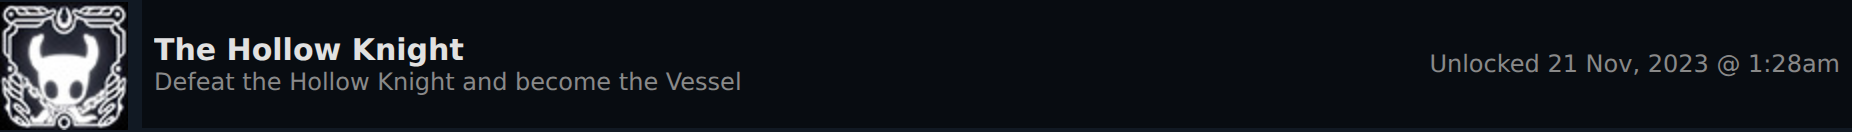
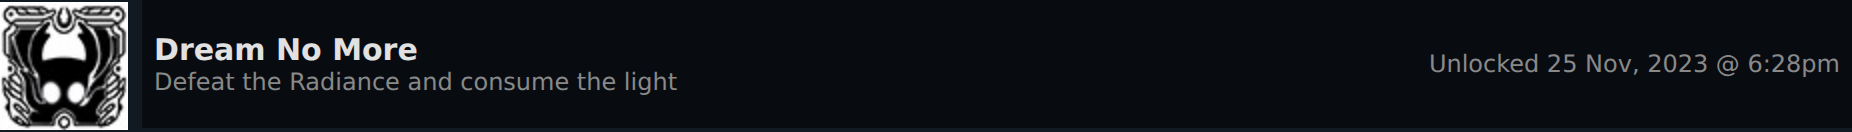
엔딩 과제 검증·교체 — 사용자 제공 리스트 기준 진엔딩/DLC 엔딩 반영
- 할로우나이트 Dream No More(진엔딩), 슬더스 Ruby+(심장), 몬헌월드 등 26게임 재캡처
- games.json proof 기준으로 제출용 인덱스 재생성

Changed region(s): [[0.0, 0.0, 0.277, 1.0], [0.1539, 0.5455, 0.4001, 0.7273], [0.7694, 0.3939, 0.9849, 0.5758]]

diff --git a/엔딩증빙-인덱스.md b/엔딩증빙-인덱스.md
@@ -1,70 +1,66 @@
 # 엔딩 증빙 인덱스 (제출 보조 자료)
 
 > 공개 Steam 프로필: https://steamcommunity.com/profiles/76561198176814643/
-> URL 클릭 시 채용담당자가 바로 검증 가능. 각 게임 도전과제 페이지에서 엔딩 과제 확인.
+> URL 클릭 시 즉시 검증 가능.
 
-## ✅ 엔딩 과제 확인·캡처됨 (27) — 사이트 카드에 이미지 표시
+## ✅ 엔딩 과제 캡처됨 (27) — 사이트 카드에 이미지 표시
 
-| 게임 | 엔딩 증명 과제 | 달성일 | 검증 |
+| 게임 | 엔딩 과제 | 달성일 | 검증 |
 |---|---|---|---|
-| Monster Hunter: World | **Fate's Conclusion** —  | 2020-02-03 | [Steam](https://steamcommunity.com/profiles/76561198176814643/stats/582010/achievements) |
-| The Binding of Isaac: Rebirth | **Wisp Baby** — Beat the game in Hard mode with Bethany. | 2021-06-30 | [Steam](https://steamcommunity.com/profiles/76561198176814643/stats/250900/achievements) |
-| MONSTER HUNTER RISE | **Calamity Conqueror Scroll** — Received upon defeating Ibushi and Narwa. Depicts the two serpents leading the Rampage. | 2022-01-26 | [Steam](https://steamcommunity.com/profiles/76561198176814643/stats/1446780/achievements) |
-| Slay the Spire | **Ruby** — Beat the game with the Ironclad. | 2024-04-02 | [Steam](https://steamcommunity.com/profiles/76561198176814643/stats/646570/achievements) |
-| Frostpunk | **Leader** — Finish the New Home scenario | 2023-10-07 | [Steam](https://steamcommunity.com/profiles/76561198176814643/stats/323190/achievements) |
-| DAVE THE DIVER | **A Peaceful Blue Hole** — Watched the ending credits. | 2023-08-01 | [Steam](https://steamcommunity.com/profiles/76561198176814643/stats/1868140/achievements) |
-| Sephiria | **Last Gatekeeper** — Defeat the Guardian Demon of Qlippoth. | 2025-10-11 | [Steam](https://steamcommunity.com/profiles/76561198176814643/stats/2436940/achievements) |
-| Skul: The Hero Slayer | **The Final Battle of the First Hero** —  | 2021-11-06 | [Steam](https://steamcommunity.com/profiles/76561198176814643/stats/1147560/achievements) |
-| Hades | **Is There No Escape?** — Clear an escape attempt | 2022-01-05 | [Steam](https://steamcommunity.com/profiles/76561198176814643/stats/1145360/achievements) |
-| Hollow Knight | **The Hollow Knight** —  | 2023-11-20 | [Steam](https://steamcommunity.com/profiles/76561198176814643/stats/367520/achievements) |
-| Balatro | **Ante Upper!** — Reach Ante 8 | 2025-01-04 | [Steam](https://steamcommunity.com/profiles/76561198176814643/stats/2379780/achievements) |
-| V Rising | **Slayer of the Immortal King** — Defeat Dracula, The Immortal King. | 2024-07-11 | [Steam](https://steamcommunity.com/profiles/76561198176814643/stats/1604030/achievements) |
-| Ori and the Will of the Wisps | **Destiny** — Complete the Game | 2023-04-23 | [Steam](https://steamcommunity.com/profiles/76561198176814643/stats/1057090/achievements) |
-| We Were Here Forever | **One Must Remain** — Escaped from Castle Rock | 2022-05-28 | [Steam](https://steamcommunity.com/profiles/76561198176814643/stats/1341290/achievements) |
-| Kena: Bridge of Spirits | **Restore Balance** —  | 2024-05-18 | [Steam](https://steamcommunity.com/profiles/76561198176814643/stats/1954200/achievements) |
-| Remnant II | **Forever is a Long Time Coming** —  | 2025-02-12 | [Steam](https://steamcommunity.com/profiles/76561198176814643/stats/1282100/achievements) |
-| Tails of Iron | **Defeat Ratnor Rodentson** — Defeat Ratnor Rodentson in the deeps of the Forbidden Crypts | 2024-08-08 | [Steam](https://steamcommunity.com/profiles/76561198176814643/stats/1283410/achievements) |
-| Tribes of Midgard | **Back to Asgarð** — Deliver the final blow to defeat a Thunder Jötunn in any Mode | 2025-02-17 | [Steam](https://steamcommunity.com/profiles/76561198176814643/stats/858820/achievements) |
-| Ori and the Blind Forest: Definitive Edition | **The Journey Ends** — Complete the game | 2023-04-22 | [Steam](https://steamcommunity.com/profiles/76561198176814643/stats/387290/achievements) |
-| Death's Door | **Crow Gamer** — Beat the game | 2024-09-02 | [Steam](https://steamcommunity.com/profiles/76561198176814643/stats/894020/achievements) |
-| SANABI | **Farewell** —  | 2024-03-10 | [Steam](https://steamcommunity.com/profiles/76561198176814643/stats/1562700/achievements) |
-| Portal 2 | **Lunacy** — That just happened | 2019-12-10 | [Steam](https://steamcommunity.com/profiles/76561198176814643/stats/620/achievements) |
-| Scritchy Scratchy | **Win everything?** — Scratch final chance without dying | 2026-04-05 | [Steam](https://steamcommunity.com/profiles/76561198176814643/stats/3948120/achievements) |
-| Emissary Zero | **The end** — Finish the game. | 2025-05-11 | [Steam](https://steamcommunity.com/profiles/76561198176814643/stats/3176060/achievements) |
-| Rock Bottom | **Light at the Bottom** — Complete the story. | 2026-07-15 | [Steam](https://steamcommunity.com/profiles/76561198176814643/stats/4297840/achievements) |
-| Zort | **Escape from Yozgat** — Escaping from the nothingness! | 2024-12-11 | [Steam](https://steamcommunity.com/profiles/76561198176814643/stats/3121110/achievements) |
-| GONE Fishing | **You Survived** — Reached day 7 | 2025-08-31 | [Steam](https://steamcommunity.com/profiles/76561198176814643/stats/3645890/achievements) |
+| Monster Hunter: World | **An End and a Beginning** | 2020-01-17 | [Steam](https://steamcommunity.com/profiles/76561198176814643/stats/582010/achievements) |
+| The Binding of Isaac: Rebirth | **Wisp Baby** | 2021-06-30 | [Steam](https://steamcommunity.com/profiles/76561198176814643/stats/250900/achievements) |
+| MONSTER HUNTER RISE | **Calamity Conqueror Scroll** | 2022-01-26 | [Steam](https://steamcommunity.com/profiles/76561198176814643/stats/1446780/achievements) |
+| Slay the Spire | **Ruby+** | 2024-04-14 | [Steam](https://steamcommunity.com/profiles/76561198176814643/stats/646570/achievements) |
+| Frostpunk | **Leader** | 2023-10-07 | [Steam](https://steamcommunity.com/profiles/76561198176814643/stats/323190/achievements) |
+| DAVE THE DIVER | **A Peaceful Blue Hole** | 2023-08-01 | [Steam](https://steamcommunity.com/profiles/76561198176814643/stats/1868140/achievements) |
+| Sephiria | **Last Gatekeeper** | 2025-10-11 | [Steam](https://steamcommunity.com/profiles/76561198176814643/stats/2436940/achievements) |
+| Skul: The Hero Slayer | **The Final Battle of the First Hero** | 2021-11-06 | [Steam](https://steamcommunity.com/profiles/76561198176814643/stats/1147560/achievements) |
+| Hades | **Is There No Escape?** | 2022-01-05 | [Steam](https://steamcommunity.com/profiles/76561198176814643/stats/1145360/achievements) |
+| Hollow Knight | **Dream No More** | 2023-11-25 | [Steam](https://steamcommunity.com/profiles/76561198176814643/stats/367520/achievements) |
+| Balatro | **Ante Upper!** | 2025-01-04 | [Steam](https://steamcommunity.com/profiles/76561198176814643/stats/2379780/achievements) |
+| V Rising | **Slayer of the Immortal King** | 2024-07-11 | [Steam](https://steamcommunity.com/profiles/76561198176814643/stats/1604030/achievements) |
+| Ori and the Will of the Wisps | **Destiny** | 2023-04-23 | [Steam](https://steamcommunity.com/profiles/76561198176814643/stats/1057090/achievements) |
+| We Were Here Forever | **One Must Remain** | 2022-05-28 | [Steam](https://steamcommunity.com/profiles/76561198176814643/stats/1341290/achievements) |
+| Kena: Bridge of Spirits | **Restore Balance** | 2024-05-18 | [Steam](https://steamcommunity.com/profiles/76561198176814643/stats/1954200/achievements) |
+| Remnant II | **Forever is a Long Time Coming** | 2025-02-12 | [Steam](https://steamcommunity.com/profiles/76561198176814643/stats/1282100/achievements) |
+| Tails of Iron | **Become King** | 2024-08-05 | [Steam](https://steamcommunity.com/profiles/76561198176814643/stats/1283410/achievements) |
+| Tribes of Midgard | **Back to Asgarð** | 2025-02-17 | [Steam](https://steamcommunity.com/profiles/76561198176814643/stats/858820/achievements) |
+| Ori and the Blind Forest: Definitive Edition | **The Journey Ends** | 2023-04-22 | [Steam](https://steamcommunity.com/profiles/76561198176814643/stats/387290/achievements) |
+| Death's Door | **Crow Gamer** | 2024-09-02 | [Steam](https://steamcommunity.com/profiles/76561198176814643/stats/894020/achievements) |
+| SANABI | **Farewell** | 2024-03-10 | [Steam](https://steamcommunity.com/profiles/76561198176814643/stats/1562700/achievements) |
+| Portal 2 | **Lunacy** | 2019-12-10 | [Steam](https://steamcommunity.com/profiles/76561198176814643/stats/620/achievements) |
+| Scritchy Scratchy | **Win everything?** | 2026-04-05 | [Steam](https://steamcommunity.com/profiles/76561198176814643/stats/3948120/achievements) |
+| Emissary Zero | **The end** | 2025-05-11 | [Steam](https://steamcommunity.com/profiles/76561198176814643/stats/3176060/achievements) |
+| Rock Bottom | **Light at the Bottom** | 2026-07-15 | [Steam](https://steamcommunity.com/profiles/76561198176814643/stats/4297840/achievements) |
+| Zort | **Escape from Yozgat** | 2024-12-11 | [Steam](https://steamcommunity.com/profiles/76561198176814643/stats/3121110/achievements) |
+| GONE Fishing | **You met Quota** | 2025-08-31 | [Steam](https://steamcommunity.com/profiles/76561198176814643/stats/3645890/achievements) |
 
-## 🔎 링크로 검증 (21) — 엔딩 과제 페이지에서 직접 확인/캡처
+## 🎬 엔딩 봤으나 과제 없음 (24) — EA/게스트/미구현, 엔딩 화면 직접 캡처
 
-| 게임 | 검증 |
-|---|---|
-| Dead Cells | [Steam](https://steamcommunity.com/profiles/76561198176814643/stats/588650/achievements) |
-| ELDEN RING | [Steam](https://steamcommunity.com/profiles/76561198176814643/stats/1245620/achievements) |
-| Enshrouded | [Steam](https://steamcommunity.com/profiles/76561198176814643/stats/1203620/achievements) |
-| Palworld | [Steam](https://steamcommunity.com/profiles/76561198176814643/stats/1623730/achievements) |
-| Horizon Zero Dawn™ Complete Edition | [Steam](https://steamcommunity.com/profiles/76561198176814643/stats/1151640/achievements) |
-| Monster Hunter Wilds | [Steam](https://steamcommunity.com/profiles/76561198176814643/stats/2246340/achievements) |
-| Backpack Hero | [Steam](https://steamcommunity.com/profiles/76561198176814643/stats/1970580/achievements) |
-| Have a Nice Death | [Steam](https://steamcommunity.com/profiles/76561198176814643/stats/1740720/achievements) |
-| Ship of Fools | [Steam](https://steamcommunity.com/profiles/76561198176814643/stats/1286580/achievements) |
-| Terraria | [Steam](https://steamcommunity.com/profiles/76561198176814643/stats/105600/achievements) |
-| Raft | [Steam](https://steamcommunity.com/profiles/76561198176814643/stats/648800/achievements) |
-| Returnal™ | [Steam](https://steamcommunity.com/profiles/76561198176814643/stats/1649240/achievements) |
-| CloverPit | [Steam](https://steamcommunity.com/profiles/76561198176814643/stats/3314790/achievements) |
-| Deep Rock Galactic: Survivor | [Steam](https://steamcommunity.com/profiles/76561198176814643/stats/2321470/achievements) |
-| Human Fall Flat | [Steam](https://steamcommunity.com/profiles/76561198176814643/stats/477160/achievements) |
-| It Takes Two | [Steam](https://steamcommunity.com/profiles/76561198176814643/stats/1426210/achievements) |
-| Sons Of The Forest | [Steam](https://steamcommunity.com/profiles/76561198176814643/stats/1326470/achievements) |
-| 9 Kings | [Steam](https://steamcommunity.com/profiles/76561198176814643/stats/2784470/achievements) |
-| We Were Here Together | [Steam](https://steamcommunity.com/profiles/76561198176814643/stats/865360/achievements) |
-| Vampire Survivors | [Steam](https://steamcommunity.com/profiles/76561198176814643/stats/1794680/achievements) |
-| Sol Cesto | [Steam](https://steamcommunity.com/profiles/76561198176814643/stats/2738490/achievements) |
-
-## 🎬 도전과제 없음 (5) — 엔딩 화면 직접 스크린샷
-
-- Slay the Spire 2
+- Slay the Spire 2 — (전 캐릭터 승천 10단계 클리어 · 얼리액세스라 도전과제 미구현)
 - Valheim
+- Dead Cells
 - No Rest for the Wicked
+- Enshrouded
+- Palworld
+- Horizon Zero Dawn™ Complete Edition
+- Monster Hunter Wilds
+- Backpack Hero
+- Have a Nice Death
+- Ship of Fools
 - Assassin's Creed II
 - Assassin's Creed
+- Raft
+- Returnal™
+- CloverPit
+- Deep Rock Galactic: Survivor
+- Human Fall Flat
+- It Takes Two — (Friend's Pass)로 완주 — 도전과제는 호스트 계정에 귀속되어 미표시)
+- Sons Of The Forest
+- 9 Kings
+- We Were Here Together
+- Vampire Survivors
+- Sol Cesto
+
+## 그 외 플랫폼
+- LoL: op.gg (좀놀던괴물#KR1) 다이아3 / FC: 넥슨 (WesthamUTD) 챌린지1 / 모바일: Google Play 게임즈 업적 596
